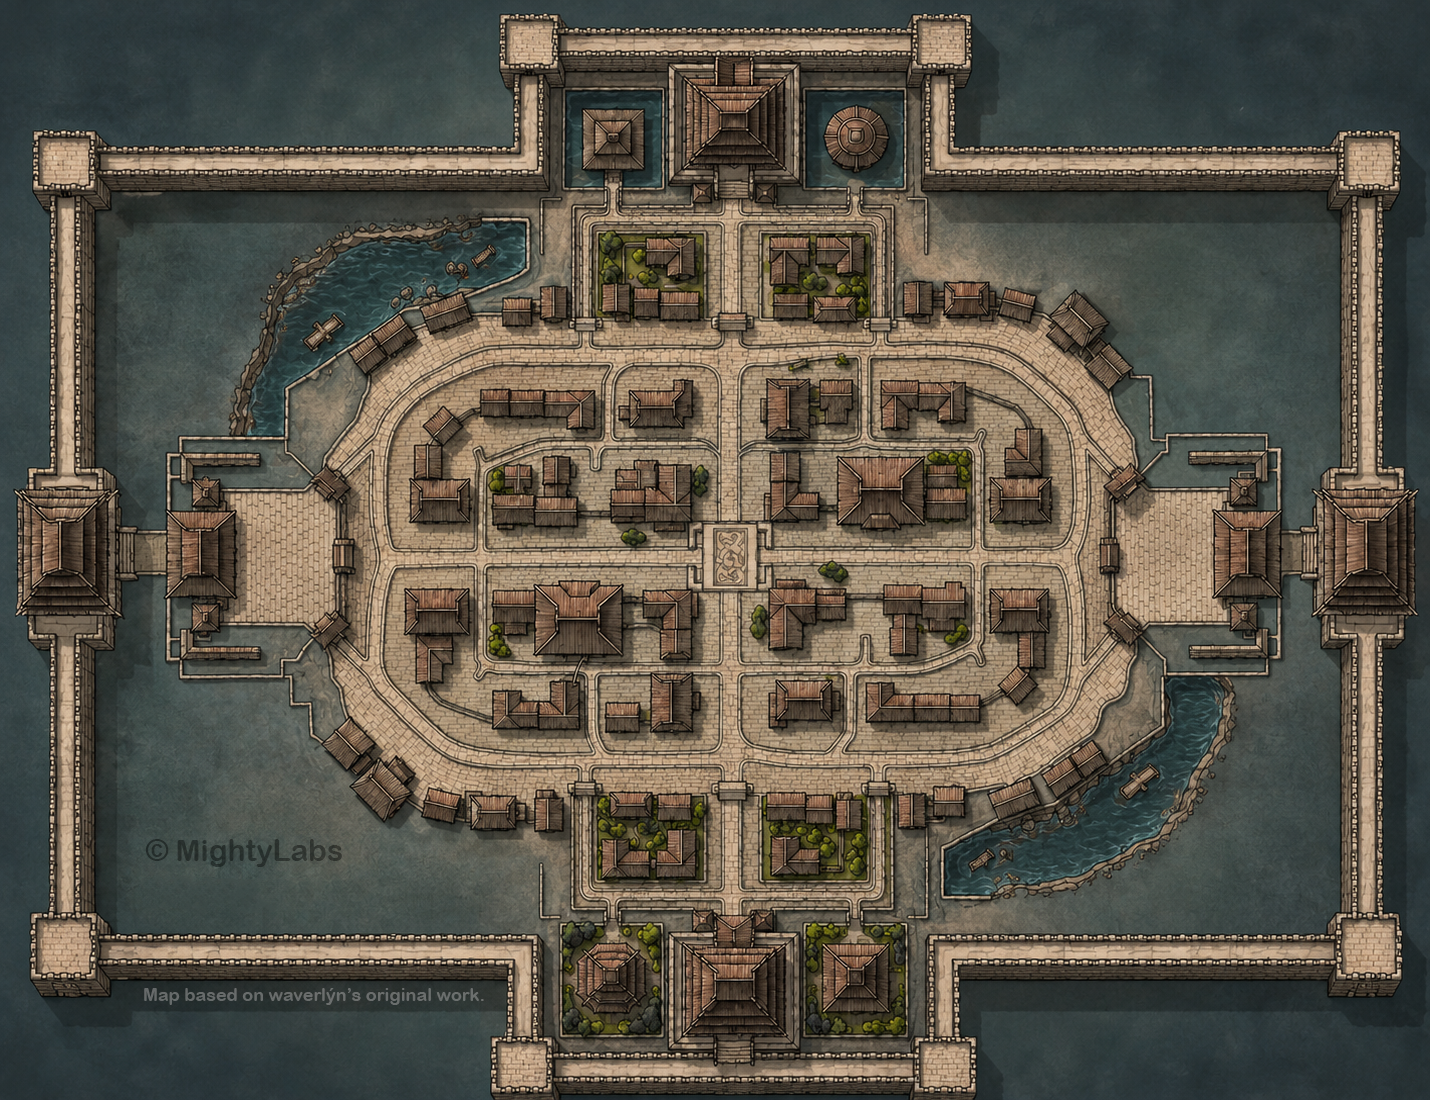
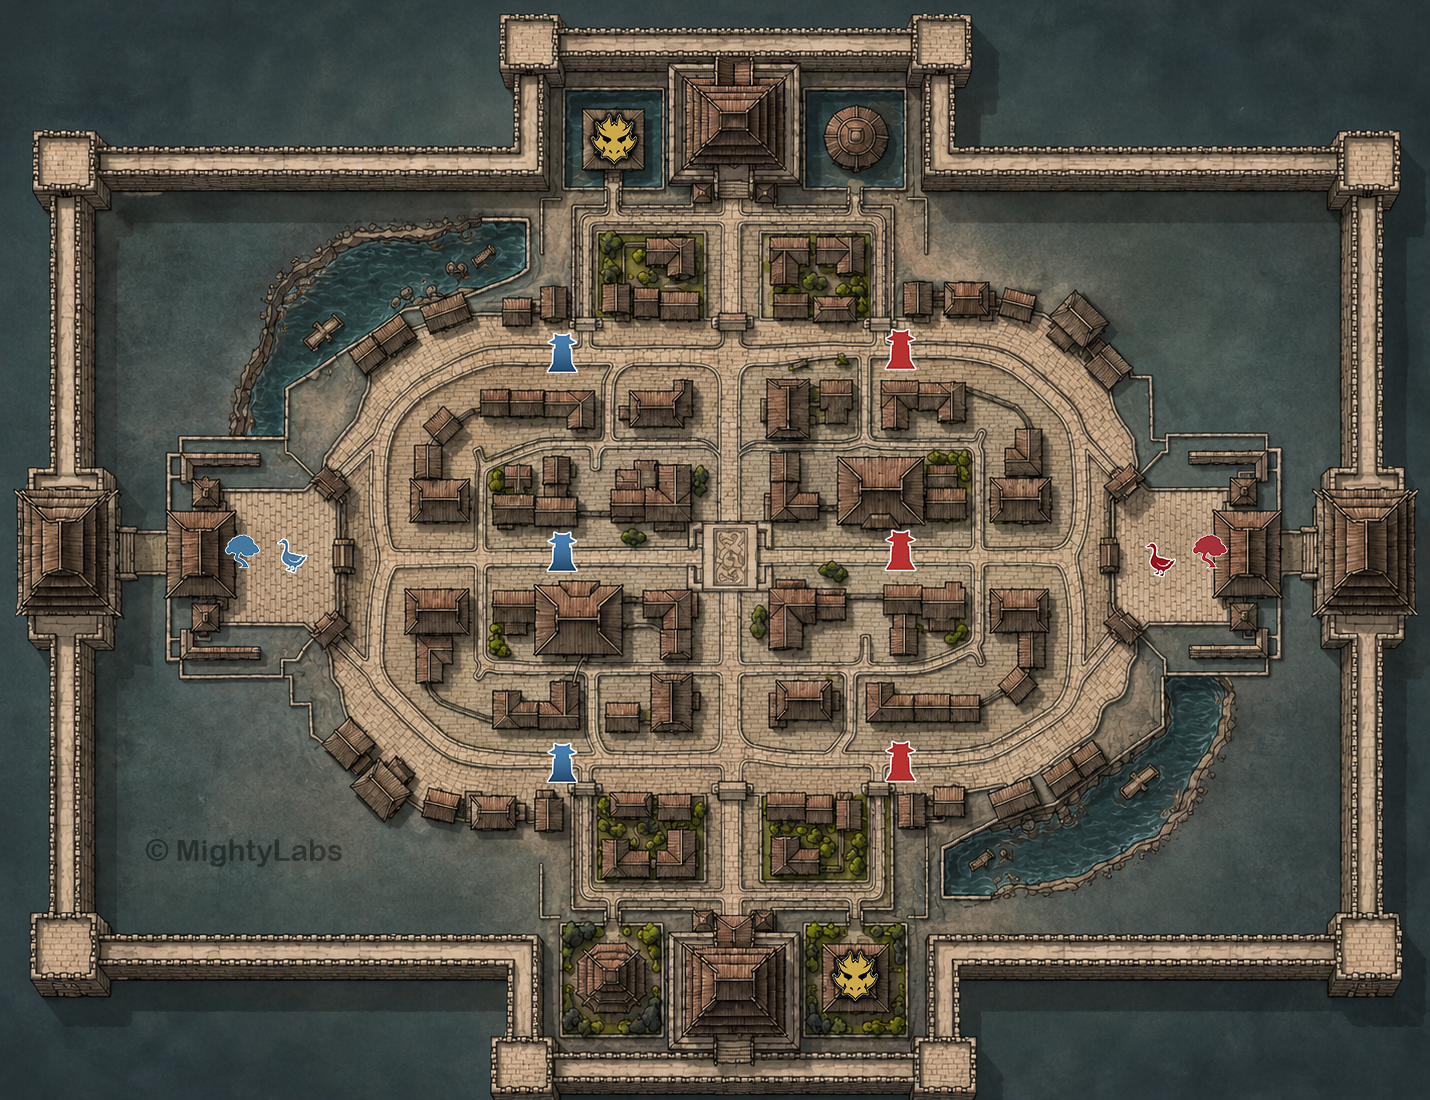
v2.2

diff --git a/styles.css b/styles.css
@@ -326,10 +326,25 @@ header img[alt="WWM Logo"] {
     align-items: center;
     gap: 10px;
     padding-bottom: 12px;
-    margin-bottom: 16px;
-    border-bottom: 1px solid var(--ink-line);
+    margin-bottom: 0;
+    border-bottom: none;
     position: relative;
 }
+
+.map-header-wrapper {
+    border-bottom: 1px solid var(--ink-line);
+    margin-bottom: 16px;
+    position: relative;
+}
+
+.map-header-wrapper::after {
+    content: '';
+    position: absolute;
+    left: 0; bottom: -1px;
+    width: 100%; height: 2px;
+    background: linear-gradient(90deg, var(--vermilion-br), transparent);
+}
+
 .member-panel h2::after,
 .map-panel h2::after {
     content: '';
@@ -337,6 +352,10 @@ header img[alt="WWM Logo"] {
     left: 0; bottom: -1px;
     width: 64px; height: 2px;
     background: linear-gradient(90deg, var(--vermilion-br), transparent);
+}
+
+.map-panel h2::after {
+    display: none;
 }
 .map-panel h2 .map-credit {
     margin-left: auto;
@@ -1617,4 +1636,86 @@ header img[alt="WWM Logo"] {
     .objective-type-grid { grid-template-columns: repeat(2, 1fr); }
     .toolbar-btn { width: 38px; height: 38px; }
     .modal-content { max-height: 94vh; }
+}
+
+/* Map Toggle Switch */
+.map-toggle-container {
+    display: flex;
+    align-items: center;
+    gap: 15px;
+}
+
+.toggle-label-main {
+    font-family: var(--font-display);
+    color: var(--gold-bright);
+    font-size: 0.95rem;
+    white-space: nowrap;
+}
+
+.toggle-switch {
+    display: inline-flex;
+    align-items: center;
+    gap: 8px;
+    cursor: pointer;
+    user-select: none;
+}
+
+.toggle-checkbox {
+    display: none;
+}
+
+.toggle-slider {
+    position: relative;
+    width: 50px;
+    height: 26px;
+    background-color: var(--ink-raised);
+    border: 1px solid var(--gold-deep);
+    border-radius: 13px;
+    transition: all 0.3s ease;
+    box-shadow: inset 0 1px 3px rgba(0,0,0,0.5);
+}
+
+.toggle-slider::before {
+    content: '';
+    position: absolute;
+    width: 22px;
+    height: 22px;
+    border-radius: 50%;
+    background-color: var(--gold);
+    top: 1px;
+    left: 1px;
+    transition: all 0.3s ease;
+    box-shadow: 0 2px 4px rgba(0,0,0,0.3);
+}
+
+.toggle-checkbox:checked + .toggle-slider {
+    background-color: rgba(201,162,75,0.2);
+    border-color: var(--gold);
+    box-shadow: inset 0 1px 3px rgba(0,0,0,0.5), 0 0 8px rgba(201,162,75,0.3);
+}
+
+.toggle-checkbox:checked + .toggle-slider::before {
+    left: 26px;
+    box-shadow: 0 2px 4px rgba(0,0,0,0.3);
+}
+
+.toggle-label, .toggle-label-2 {
+    font-size: 0.85rem;
+    font-family: var(--font-display);
+    color: var(--silk-faint);
+    min-width: 45px;
+    text-align: center;
+    transition: color 0.3s ease;
+}
+
+.toggle-label {
+    color: var(--gold-bright);
+}
+
+.toggle-checkbox:checked + .toggle-slider + .toggle-label {
+    color: var(--silk-faint);
+}
+
+.toggle-checkbox:checked + .toggle-slider + .toggle-label + .toggle-label-2 {
+    color: var(--gold-bright);
 }

diff --git a/index.html b/index.html
@@ -65,7 +65,7 @@
                 </button>
                 <button id="changelogBtn" class="nav-btn">
                     <span class="nav-icon">📋</span>
-                    <span class="nav-text">v.2.1</span>
+                    <span class="nav-text">v.2.2</span>
                 </button>
             </nav>
             
@@ -101,7 +101,18 @@
             
             <!-- Map Area -->
             <div class="map-panel">
-                <h2>Battle Map <span class="map-credit">• Created by <a href="https://discordapp.com/users/91448874530504704" target="_blank" class="mightylabs-link">MIGHTYLABS</a></span></h2>
+                <div class="map-header-wrapper" style="display: flex; align-items: center; justify-content: space-between; width: 100%;">
+                    <h2>Battle Map <span class="map-credit">• Created by <a href="https://discordapp.com/users/91448874530504704" target="_blank" class="mightylabs-link">MIGHTYLABS</a></span></h2>
+                    <div class="map-toggle-container">
+                        <span class="toggle-label-main">Objective Markers</span>
+                        <label class="toggle-switch" title="Switch objective markers ON/OFF">
+                            <input type="checkbox" id="mapToggle" class="toggle-checkbox">
+                            <span class="toggle-slider"></span>
+                            <span class="toggle-label">ON</span>
+                            <span class="toggle-label-2">OFF</span>
+                        </label>
+                    </div>
+                </div>
                 
                 <div id="mapArea" class="map-area">
                     <canvas id="drawingCanvas" class="drawing-canvas"></canvas>
@@ -515,7 +526,7 @@
                         <div class="howto-row"><span class="howto-icon">⌨️</span><div><strong>Hot Keys</strong>: Lists all keyboard shortcuts.</div></div>
                         <div class="howto-row"><span class="howto-icon">⚠️</span><div><strong>Known Issues</strong>: Important notes about browser zoom and best practices.</div></div>
                         <div class="howto-row"><span class="howto-icon">📖</span><div><strong>How To Use</strong>: This guide!</div></div>
-                            <div class="howto-row"><span class="howto-icon">📋</span><div><strong id="howtoVersionLabel">v.2.1</strong>: Full version history and changelog.</div></div>
+                            <div class="howto-row"><span class="howto-icon">📋</span><div><strong id="howtoVersionLabel">v.2.2</strong>: Full version history and changelog.</div></div>
                     </div>
                 </div>
 
@@ -625,8 +636,22 @@ YanZiniang,DPS,FLEX,Nameless Sword,Nameless Spear</pre>
             </div>
             <div class="modal-body" style="max-height: 70vh; overflow-y: auto; text-align: left;">
                 <div class="version-current">
-                    <h3>🎯 Current Version: 2.1</h3>
+                    <h3>🎯 Current Version: 2.2</h3>
                     <p class="version-date">Released: July 2026</p>
+                </div>
+
+                <div class="changelog-section">
+                    <h4>Version 2.2 - Map Variants & Objective Markers Toggle</h4>
+                    <ul>
+                        <li>🗺️ <strong>Map Toggle Switch:</strong> Added "Objective Markers" toggle switch in the Battle Map header to switch between 2 map variants.</li>
+                        <li>💾 <strong>Toggle Persistence:</strong> Map preference is saved to localStorage and restored on page load.</li>
+                        <li>🎨 <strong>Styling Refinements:</strong> New themed toggle switch with golden slider indicator and ON/OFF labels that match the interface design.</li>
+                        <li>✨ <strong>Header Layout:</strong> Updated Battle Map header to accommodate the new toggle while maintaining vertical alignment with the red streak underline.</li>
+                    </ul>
+                </div>
+
+                <div class="version-current">
+                    <h3>Previous Version: 2.1</h3>
                 </div>
 
                 <div class="changelog-section">
@@ -645,6 +670,7 @@ YanZiniang,DPS,FLEX,Nameless Sword,Nameless Spear</pre>
 
                 <div class="changelog-section">
                     <h4>Version 2.0.1 - Arrow Tool &amp; Toolbar Refinements</h4>
+                    <p class="version-date">Released: May 2026</p>
                     <ul>
                         <li>➹ <strong>Directional Arrow Tool:</strong> Added a draggable arrow tool. Click the arrow button, then drag on the map to draw a variable length, directional arrow for callouts, pushes, and rotations.</li>
                         <li>✨ <strong>Map Objectives Back on the Toolbar:</strong> Un-nested the boss, tower, tree, and goose markers from the pop-up menu. They now sit directly on the bottom toolbar for one click placement.</li>
@@ -659,6 +685,7 @@ YanZiniang,DPS,FLEX,Nameless Sword,Nameless Spear</pre>
 
                 <div class="changelog-section">
                     <h4>Version 2.0.0 - "Ink &amp; Cinder" Complete Redesign</h4>
+                    <p class="version-date">Released: April 2026</p>
                     <ul>
                         <li>🎨 <strong>Full Visual Overhaul:</strong> Rebuilt the entire interface with a wuxia inspired ink and gold theme to match Where Winds Meet, replacing the previous look entirely.</li>
                         <li>🖼️ <strong>New Layout:</strong> Reorganized into a battle map left, roster right layout with framed map, hanging scroll header, and engraved navigation tablets.</li>
@@ -671,6 +698,7 @@ YanZiniang,DPS,FLEX,Nameless Sword,Nameless Spear</pre>
 
                 <div class="changelog-section">
                     <h4>Version 1.12.0 - Minor Updates</h4>
+                    <p class="version-date">Released: March 2026</p>
                     <ul>
                         <li>✨ <strong>Pre-populated Teams:</strong> Added `Team 1`–`Team 6` and placed them at the top of the left panel and team dropdowns.</li>
                         <li>✨ <strong>View Toggle Rename:</strong> Renamed "All Players" to "Show Players Only" for clearer UI wording.</li>
@@ -680,6 +708,7 @@ YanZiniang,DPS,FLEX,Nameless Sword,Nameless Spear</pre>
 
                 <div class="changelog-section">
                     <h4>Version 1.11.0 - Major Overhaul: Objective Markers, Rebranding & Bug Fixes</h4>
+                    <p class="version-date">Released: February 2026</p>
                     <ul>
                         <li>🎯 <strong>Enhanced Objective Markers:</strong> Complete redesign with new marker types and functionality</li>
                         <li>🎯 <strong>Class Objective Markers:</strong> Added specialized markers for different objective types (Attack, Defend, Hold, Danger, etc.)</li>
@@ -698,6 +727,7 @@ YanZiniang,DPS,FLEX,Nameless Sword,Nameless Spear</pre>
                 
                 <div class="changelog-section">
                     <h4>Version 1.10.0 - How To Guide, Guild Leader &amp; Role Badge Fixes</h4>
+                    <p class="version-date">Released: January 2026</p>
                     <ul>
                         <li>✨ Added full "How To Use" guide in navigation bar: covers every feature for new users</li>
                         <li>✨ CSV template shown inline inside the guide for easy reference</li>
@@ -709,6 +739,7 @@ YanZiniang,DPS,FLEX,Nameless Sword,Nameless Spear</pre>
                 
                 <div class="changelog-section">
                     <h4>Version 1.9.0 - Gallery Slideshow &amp; UI Polish</h4>
+                    <p class="version-date">Released: December 2025</p>
                     <ul>
                         <li>✨ Screenshot gallery now shows compact thumbnails (up to 10 visible at once)</li>
                         <li>✨ Click any thumbnail to open full-screen slideshow lightbox</li>
@@ -722,6 +753,7 @@ YanZiniang,DPS,FLEX,Nameless Sword,Nameless Spear</pre>
                 
                 <div class="changelog-section">
                     <h4>Version 1.8.0 - Player Roster Import & UI Fixes</h4>
+                    <p class="version-date">Released: November 2025</p>
                     <ul>
                         <li>✨ Added player roster import from CSV or Excel (.xlsx) files</li>
                         <li>✨ Import previews players before confirming, with coloured role badges</li>
@@ -734,6 +766,7 @@ YanZiniang,DPS,FLEX,Nameless Sword,Nameless Spear</pre>
                 
                 <div class="changelog-section">
                     <h4>Version 1.7.0 - Screenshot Gallery</h4>
+                    <p class="version-date">Released: October 2025</p>
                     <ul>
                         <li>✨ Added screenshot gallery storing the last 10 captures</li>
                         <li>✨ Added version history and changelog viewer (this screen!)</li>

diff --git a/app.js b/app.js
@@ -654,6 +654,24 @@ function setupEventListeners() {
     mapArea.addEventListener('mouseup', handleMapMouseUp);
     mapArea.addEventListener('mouseleave', handleMapMouseLeave);
     
+    // Map toggle functionality
+    const mapToggle = document.getElementById('mapToggle');
+    if (mapToggle) {
+        mapToggle.addEventListener('change', function() {
+            const mapImage = this.checked ? 'images/map2.png' : 'images/map.png';
+            mapArea.style.backgroundImage = `url('${mapImage}')`;
+            // Save preference to localStorage
+            localStorage.setItem('mightylabs-gvg-map-preference', this.checked ? 'map2' : 'map1');
+        });
+        
+        // Load saved preference
+        const savedMapPreference = localStorage.getItem('mightylabs-gvg-map-preference');
+        if (savedMapPreference === 'map2') {
+            mapToggle.checked = true;
+            mapArea.style.backgroundImage = "url('images/map2.png')";
+        }
+    }
+    
     // Search functionality
     searchInput.addEventListener('input', handleSearch);
     